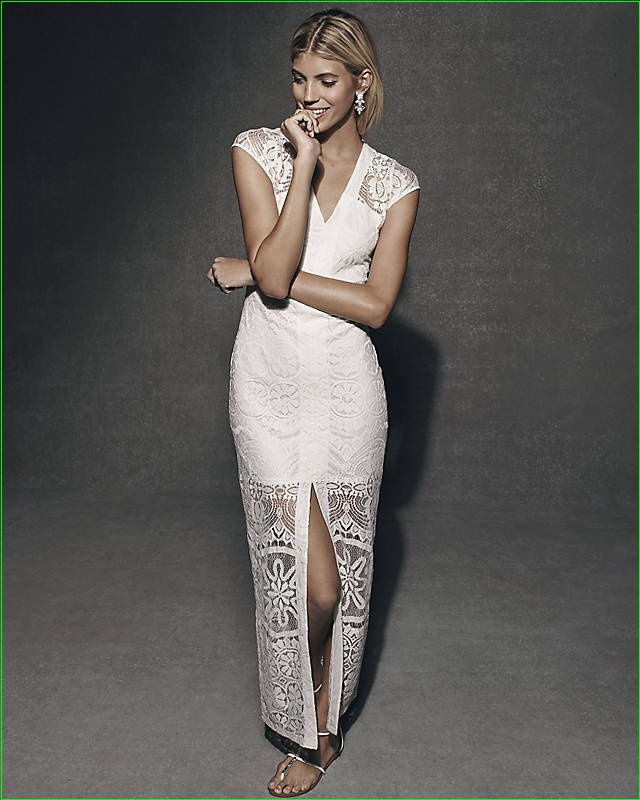
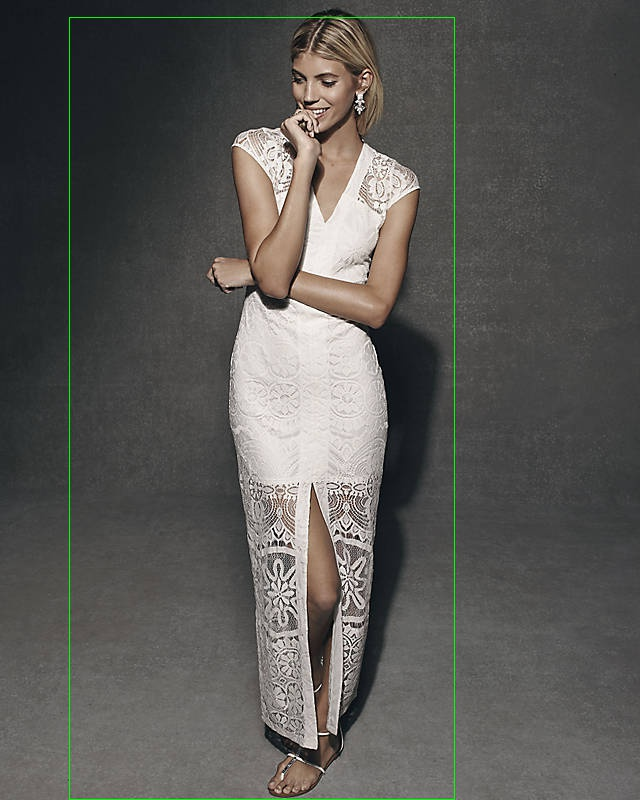
add thresh method swapping depending on background color

Changed region(s): [[0.0, 0.0, 1.0, 1.0], [0.9688, 0.9688, 1.0, 1.0]]

diff --git a/scripts.py b/scripts.py
@@ -2,14 +2,20 @@ import cv2
 
 for num in range(3, 25):
     img = cv2.imread('imgin/example_{0}_1.jpg'.format(num))
-    height, width, channels = img.shape
+    height, width, _ = img.shape
+
+    rect = img[0:50, 0:50]
+    mean = rect.mean()
+    THRESH_METHOD = cv2.THRESH_BINARY if (mean < (255 - mean)) else cv2.THRESH_BINARY_INV
+
     imgray = cv2.cvtColor(img, cv2.COLOR_BGR2GRAY)
-    ret, thresh = cv2.threshold(imgray, 127, 255, cv2.THRESH_BINARY_INV)
-    image, contours, hierarchy = cv2.findContours(thresh, cv2.RETR_TREE, cv2.CHAIN_APPROX_SIMPLE)
+    _, thresh = cv2.threshold(imgray, 127, 255, THRESH_METHOD)
+    _, contours, _ = cv2.findContours(thresh, cv2.RETR_TREE, cv2.CHAIN_APPROX_SIMPLE)
 
     x1, y1, x2, y2 = width, height, 0, 0
     for con in contours:
         x, y, w, h = cv2.boundingRect(con)
         x1, y1, x2, y2 = min(x, x1), min(y, y1), max(x + w, x2), max(y + h, y2)
+
     img = cv2.rectangle(img, (x1, y1), (x2, y2), (0, 255, 0), 1)
     cv2.imwrite('imgout/example_{0}_contour.jpg'.format(num), img)
